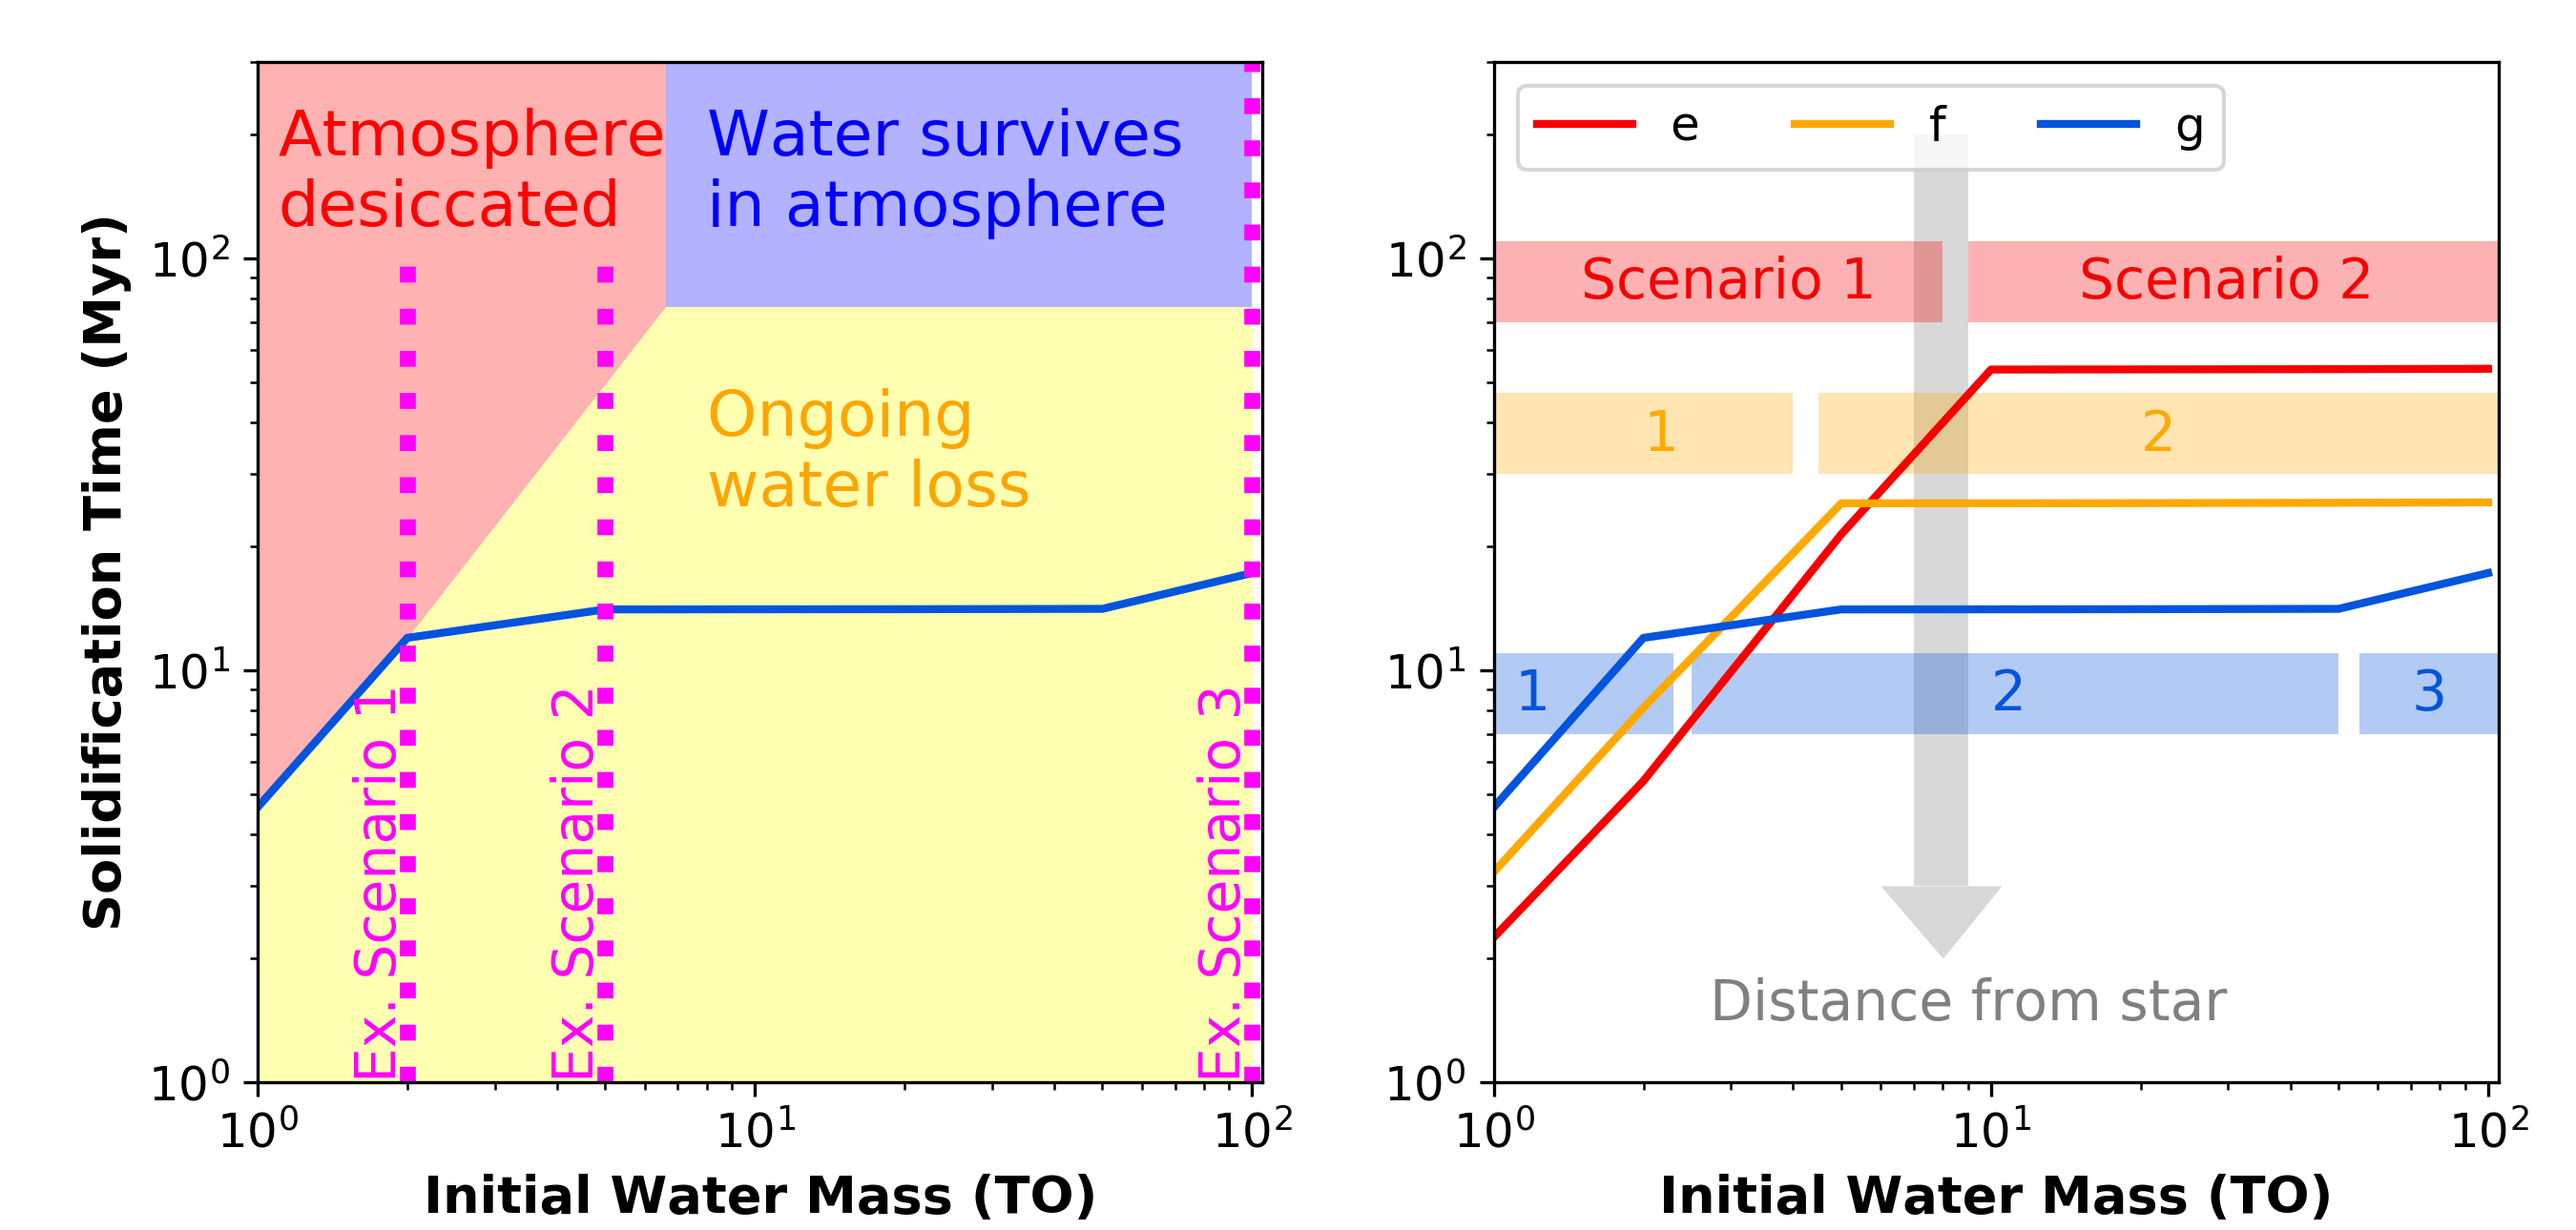
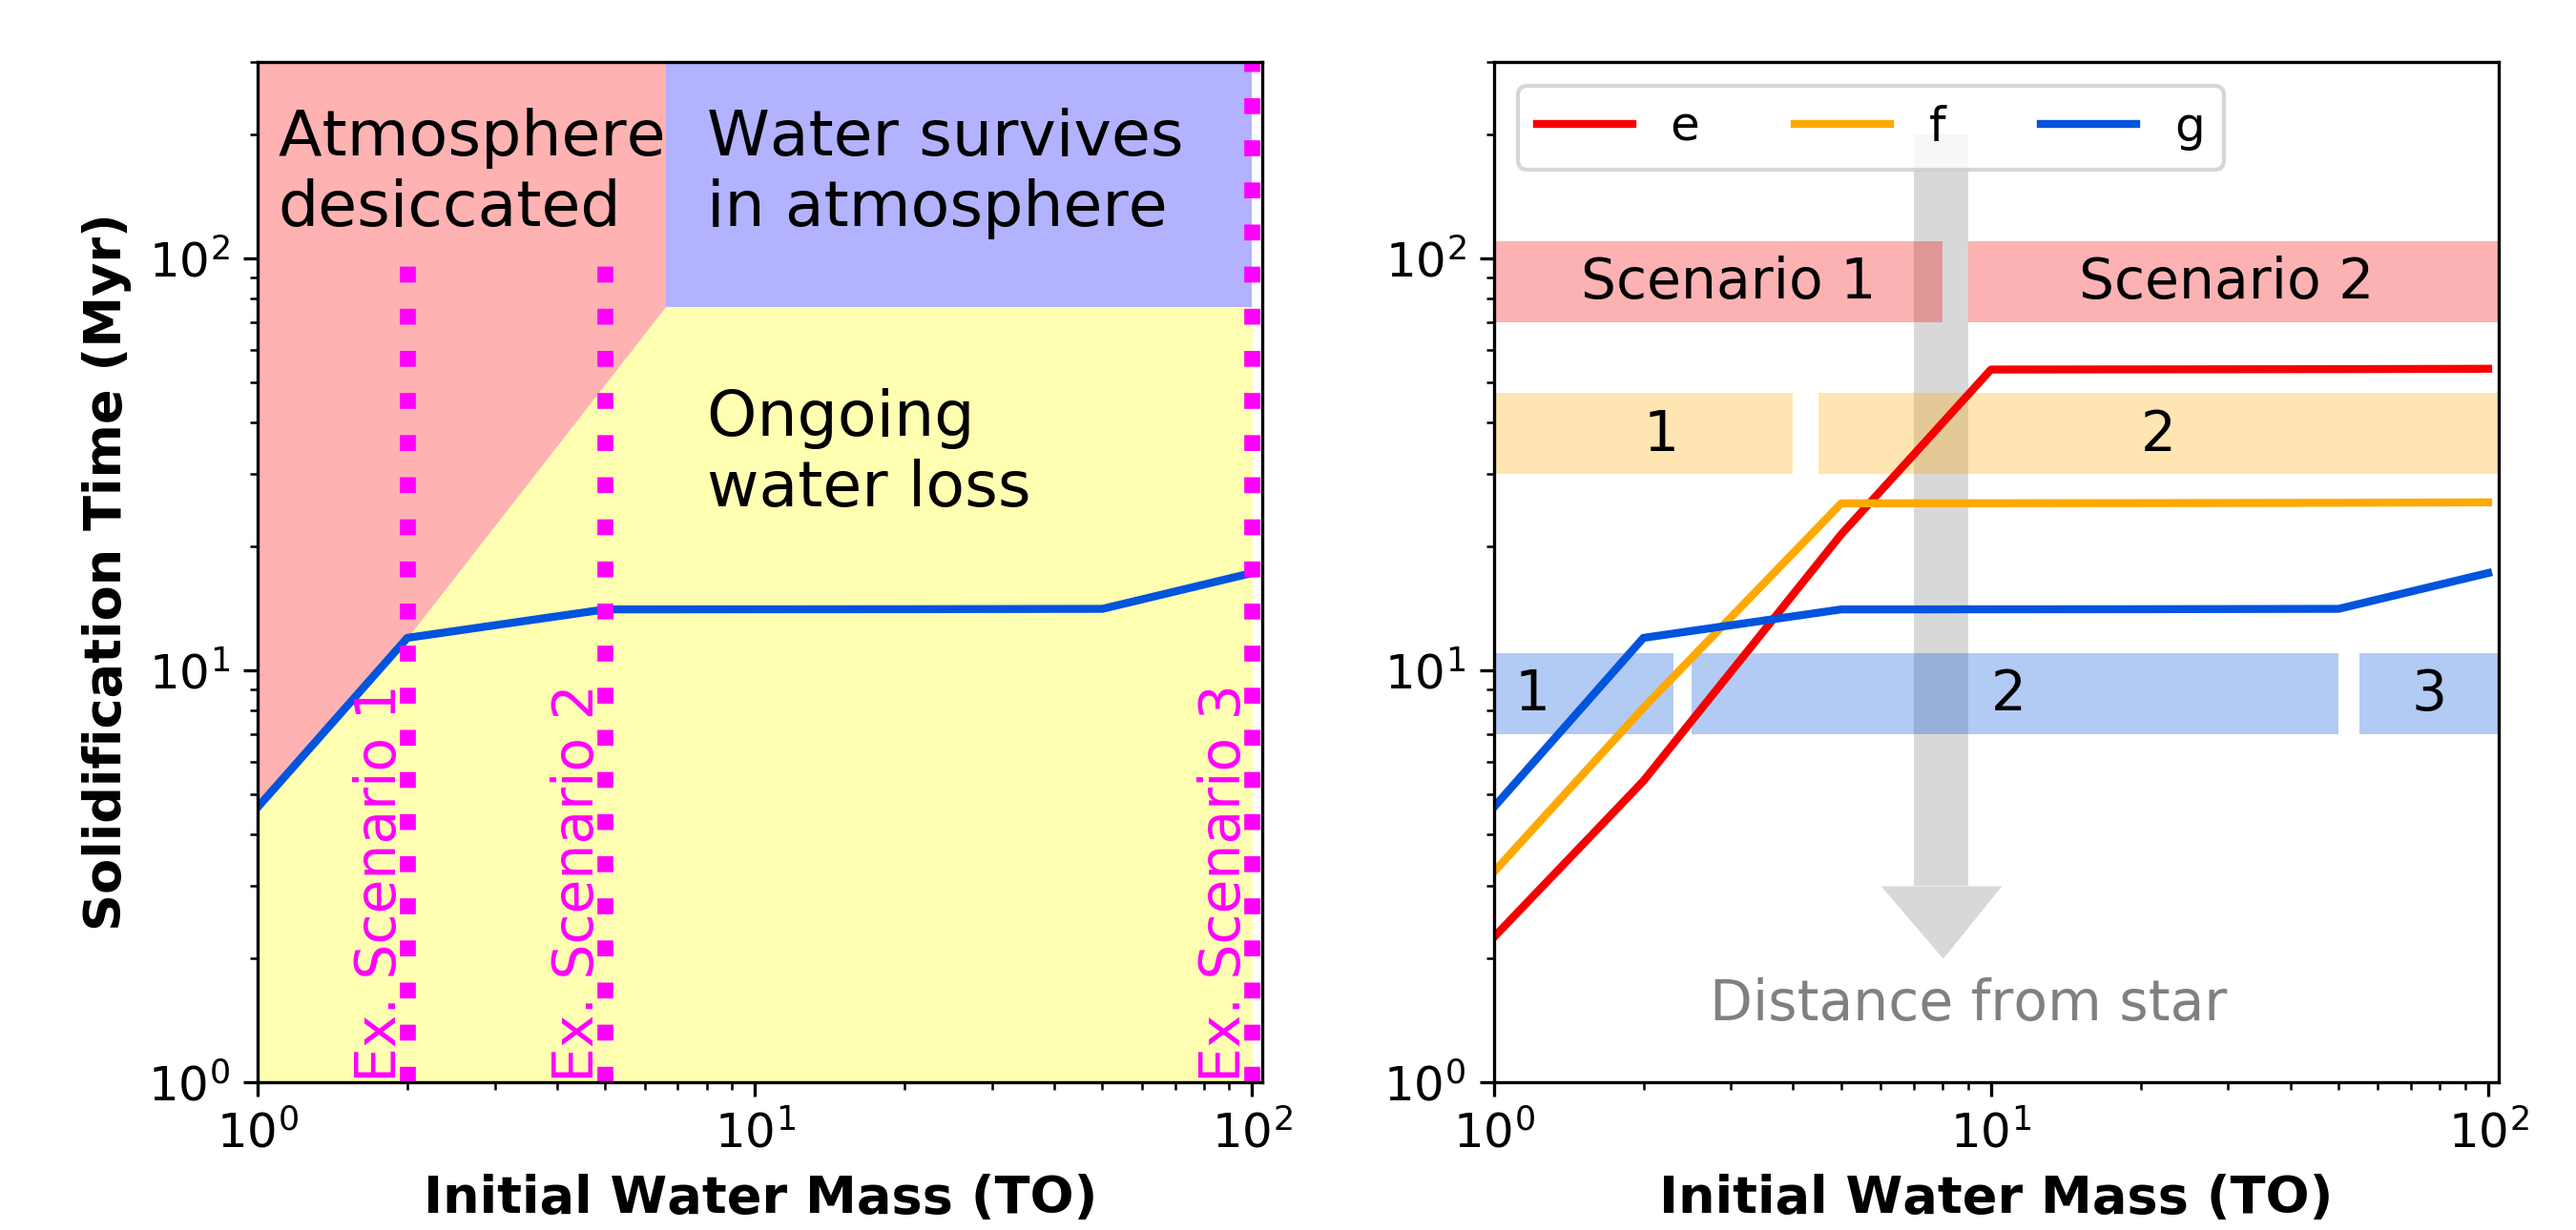
heat comparison without co2

diff --git a/Fig_Trappist1e_Compare_Heat/plot_trappist_comp_volatile.py b/Fig_Trappist1e_Compare_Heat/plot_trappist_comp_volatile.py
@@ -32,8 +32,10 @@ Short_Planet = 'e'
 
 
 # read data
-data_1 = np.loadtxt('CO2_TR1_e_100TO_sol/Trappist1.e.forward')
-data_2 = np.loadtxt('CO2_TR1_e_100TO_heat/Trappist1.e.forward')
+# data_1 = np.loadtxt('CO2_TR1_e_100TO_sol/Trappist1.e.forward')
+# data_2 = np.loadtxt('CO2_TR1_e_100TO_heat/Trappist1.e.forward')
+data_1 = np.loadtxt('TR1_e_100TO/Trappist1.e.forward')
+data_2 = np.loadtxt('TR1_e_100TO_heat/Trappist1.e.forward')
 
 time_1        = data_1[:,0]  # time (yr)
 Tpot_1        = data_1[:,1]  # Potential temp magma ocean (K)
@@ -45,10 +47,10 @@ M_O_mo_1      = data_1[:,6] # mass of oxygen in magma ocean + atmosphere (kg)
 M_O_sol_1     = data_1[:,7] # mass of oxygen in solid mantle (kg)
 Press_H2O_1   = data_1[:,8] # partial pressure water in atmopshere (bar)
 Press_O_1     = data_1[:,9] # partial pressure oxygen in atmosphere (bar)
-M_CO2_mo_1    = data_1[:,19] # mass of CO2 in magma ocean + atmosphere (kg)
-M_CO2_sol_1   = data_1[:,20] # mass of CO2 in solid mantle (kg)
-Press_CO2_1   = data_1[:,21] # pressure CO2 in atmopshere (bar)
-Frac_CO2_1    = data_1[:,22] # CO2 fraction in magma ocean
+# M_CO2_mo_1    = data_1[:,19] # mass of CO2 in magma ocean + atmosphere (kg)
+# M_CO2_sol_1   = data_1[:,20] # mass of CO2 in solid mantle (kg)
+# Press_CO2_1   = data_1[:,21] # pressure CO2 in atmopshere (bar)
+# Frac_CO2_1    = data_1[:,22] # CO2 fraction in magma ocean
 
 time_2        = data_2[:,0]  # time (yr)
 Tpot_2        = data_2[:,1]  # Potential temp magma ocean (K)
@@ -60,10 +62,10 @@ M_O_mo_2      = data_2[:,6] # mass of oxygen in magma ocean + atmosphere (kg)
 M_O_sol_2     = data_2[:,7] # mass of oxygen in solid mantle (kg)
 Press_H2O_2   = data_2[:,8] # partial pressure water in atmopshere (bar)
 Press_O_2     = data_2[:,9] # partial pressure oxygen in atmosphere (bar)
-M_CO2_mo_2    = data_2[:,19] # mass of CO2 in magma ocean + atmosphere (kg)
-M_CO2_sol_2   = data_2[:,20] # mass of CO2 in solid mantle (kg)
-Press_CO2_2   = data_2[:,21] # pressure CO2 in atmopshere (bar)
-Frac_CO2_2    = data_2[:,22] # CO2 fraction in magma ocean
+# M_CO2_mo_2    = data_2[:,19] # mass of CO2 in magma ocean + atmosphere (kg)
+# M_CO2_sol_2   = data_2[:,20] # mass of CO2 in solid mantle (kg)
+# Press_CO2_2   = data_2[:,21] # pressure CO2 in atmopshere (bar)
+# Frac_CO2_2    = data_2[:,22] # CO2 fraction in magma ocean
 
 n_time_1 = len(time_1)
 n_time_2 = len(time_2)
@@ -71,10 +73,16 @@ n_time_2 = len(time_2)
 M_water_atm_1 = np.zeros(n_time_1)
 M_O_atm_1     = np.zeros(n_time_1)
 M_CO2_atm_1   = np.zeros(n_time_1)
+Ave_molmass_1 = np.zeros(n_time_1)
+Partpress_H2O_1 = np.zeros(n_time_1)
+Partpress_O2_1  = np.zeros(n_time_1)
 
 M_water_atm_2 = np.zeros(n_time_2)
 M_O_atm_2     = np.zeros(n_time_2)
 M_CO2_atm_2   = np.zeros(n_time_2)
+Ave_molmass_2 = np.zeros(n_time_2)
+Partpress_H2O_2 = np.zeros(n_time_2)
+Partpress_O2_2  = np.zeros(n_time_2)
 
 TO     = 1.39e21         # mass of 1 Terr. Ocean [kg]
 REARTH = 6.3781e6        # m
@@ -84,15 +92,24 @@ r_p    = R_N_Planet*REARTH
 m_p    = M_N_Planet*MEARTH
 g      = (BIGG * m_p) / (r_p ** 2)
 
+MOLMASSH2O = 18e-3
+MOLMASSO2  = 32e-3
+
 for i in range(n_time_1):
     M_water_atm_1[i] = Press_H2O_1[i]*1e5 * 4 * np.pi * r_p**2 / g
     M_O_atm_1[i]     = Press_O_1[i]  *1e5 * 4 * np.pi * r_p**2 / g
-    M_CO2_atm_1[i]   = Press_CO2_1[i]*1e5 * 4 * np.pi * r_p**2 / g
+    # M_CO2_atm_1[i]   = Press_CO2_1[i]*1e5 * 4 * np.pi * r_p**2 / g
+    Ave_molmass_1[i] = (M_water_atm_1[i]+M_O_atm_1[i])/(M_water_atm_1[i]/MOLMASSH2O + M_O_atm_1[i]/MOLMASSO2)
+    Partpress_H2O_1[i] = Press_H2O_1[i] * Ave_molmass_1[i]/MOLMASSH2O
+    Partpress_O2_1[i]  = Press_O_1[i]   * Ave_molmass_1[i]/MOLMASSO2
 
 for i in range(n_time_2):
     M_water_atm_2[i] = Press_H2O_2[i]*1e5 * 4 * np.pi * r_p**2 / g
     M_O_atm_2[i]     = Press_O_2[i]  *1e5 * 4 * np.pi * r_p**2 / g
-    M_CO2_atm_2[i]   = Press_CO2_2[i]*1e5 * 4 * np.pi * r_p**2 / g
+    # M_CO2_atm_2[i]   = Press_CO2_2[i]*1e5 * 4 * np.pi * r_p**2 / g
+    Ave_molmass_2[i] = (M_water_atm_2[i]+M_O_atm_2[i])/(M_water_atm_2[i]/MOLMASSH2O + M_O_atm_2[i]/MOLMASSO2)
+    Partpress_H2O_2[i] = Press_H2O_2[i] * Ave_molmass_2[i]/MOLMASSH2O
+    Partpress_O2_2[i]  = Press_O_2[i]   * Ave_molmass_2[i]/MOLMASSO2
 
 
 ### Plot ###
@@ -111,8 +128,8 @@ ax1.plot(time_2*10**-6, Tsurf_2, linestyle='--', color=cmap(220))
 ax1.legend(loc='best', frameon=True)
 ax1.set_ylabel('Temperature (K)')
 ax1.set_xscale('log')
-ax1.set_xlim([1,253])
-ax1.set_ylim([1500,3500])
+ax1.set_xlim([0.1,253])
+ax1.set_ylim([500,4000])
 
 # ---------------------------------------------------------------------------- #
 ax2 = fig.add_subplot(222, sharex=ax1)
@@ -147,18 +164,16 @@ ax3.set_yscale('log')
 
 # ---------------------------------------------------------------------------- #
 ax7 = fig.add_subplot(224, sharex=ax1)
-ax7.plot(time_1*10**-6, M_CO2_atm_1, label='atmosphere',   color=cmap(0))
-ax7.plot(time_1*10**-6, M_CO2_mo_1-M_CO2_atm_1, label='magma ocean',   color=cmap(70))
-ax7.plot(time_1*10**-6, M_CO2_sol_1, label='solid',   color=cmap(220))
+ax7.plot(time_1*10**-6, Partpress_H2O_1, label='$H_2O$',   color=cmap(70))
+ax7.plot(time_1*10**-6, Partpress_O2_1,  label='$O_2$',   color=cmap(220))
 
-ax7.plot(time_2*10**-6, M_CO2_atm_2,  linestyle='--',  color=cmap(0))
-ax7.plot(time_2*10**-6, M_CO2_mo_2-M_CO2_atm_2,  linestyle='--', color=cmap(70))
-ax7.plot(time_2*10**-6, M_CO2_sol_2,  linestyle='--', color=cmap(220))
+ax7.plot(time_2*10**-6, Partpress_H2O_2,  linestyle='--',  color=cmap(70))
+ax7.plot(time_2*10**-6, Partpress_O2_2,   linestyle='--', color=cmap(220))
 
-ax7.set_ylim([1e18,1e23])
+ax7.set_ylim([1,1e5])
 ax7.legend(loc='best', frameon=True)
 ax7.set_xlabel('Time (Myr)')
-ax7.set_ylabel('$CO_2$ Mass (kg)')
+ax7.set_ylabel('Partial Pressure (bar)')
 ax7.set_yscale('log')
 
 plt.subplots_adjust(left=0.08, right=0.98, top=0.9, bottom=0.1, wspace=0.2, hspace=0.12)

diff --git a/Fig_Trappist1g_scenarios/TR1_scenarios_efg.py b/Fig_Trappist1g_scenarios/TR1_scenarios_efg.py
@@ -110,9 +110,9 @@ ax1.text(  2, 1, 'Ex. Scenario 1', rotation=90, ha='right', va='bottom', fontsiz
 ax1.text(  5, 1, 'Ex. Scenario 2', rotation=90, ha='right', va='bottom', fontsize=14, color='magenta')
 ax1.text(100, 1, 'Ex. Scenario 3', rotation=90, ha='right', va='bottom', fontsize=14, color='magenta')
 
-ax1.text(1.1, 120, 'Atmosphere \ndesiccated',        color='red',    fontsize=16)
-ax1.text(  8, 120, 'Water survives \nin atmosphere', color='blue',   fontsize=16)
-ax1.text(  8,  25, 'Ongoing \nwater loss',           color='orange', fontsize=16)
+ax1.text(1.1, 120, 'Atmosphere \ndesiccated',        color='black',    fontsize=16)
+ax1.text(  8, 120, 'Water survives \nin atmosphere', color='black',   fontsize=16)
+ax1.text(  8,  25, 'Ongoing \nwater loss',           color='black', fontsize=16)
 
 # ax1.legend(title='TRAPPIST-1 g with $H_2O$ atmosphere', loc='lower left', bbox_to_anchor= (0, 1.02), ncol=2, borderaxespad=0, frameon=True, title_fontsize=13)
 
@@ -145,21 +145,21 @@ ax2.fill_between([6,8,10.5], [3,2,3], [3,3,3], color='grey',   alpha=0.3, linewi
 ax2.text(9,1.8,'Distance from star',color='grey',fontsize=14,ha='center',va='top')
 
 ax2.fill_between([1,8], 70, 110, color=cmap(220),   alpha=0.3, linewidth=0.0)
-ax2.text(1.5,80,'Scenario 1',color=cmap(220),fontsize=14)
+ax2.text(1.5,80,'Scenario 1',color=cmap(0),fontsize=14)
 ax2.fill_between([9,105], 70, 110, color=cmap(220),   alpha=0.3, linewidth=0.0)
-ax2.text(15,80,'Scenario 2',color=cmap(220),fontsize=14)
+ax2.text(15,80,'Scenario 2',color=cmap(0),fontsize=14)
 
 ax2.fill_between([1,4], 30, 47, color=cmap(200),   alpha=0.3, linewidth=0.0)
-ax2.text(2,34,'1',color=cmap(200),fontsize=14)
+ax2.text(2,34,'1',color=cmap(0),fontsize=14)
 ax2.fill_between([4.5,105], 30, 47, color=cmap(200),   alpha=0.3, linewidth=0.0)
-ax2.text(20,34,'2',color=cmap(200),fontsize=14)
+ax2.text(20,34,'2',color=cmap(0),fontsize=14)
 
 ax2.fill_between([1,2.3], 7, 11, color=cmap(60),   alpha=0.3, linewidth=0.0)
-ax2.text(1.1,8,'1',color=cmap(60),fontsize=14)
+ax2.text(1.1,8,'1',color=cmap(0),fontsize=14)
 ax2.fill_between([2.5,50], 7, 11, color=cmap(60),   alpha=0.3, linewidth=0.0)
-ax2.text(10,8,'2',color=cmap(60),fontsize=14)
+ax2.text(10,8,'2',color=cmap(0),fontsize=14)
 ax2.fill_between([55,105], 7, 11, color=cmap(60),   alpha=0.3, linewidth=0.0)
-ax2.text(70,8,'3',color=cmap(60),fontsize=14)
+ax2.text(70,8,'3',color=cmap(0),fontsize=14)
 
 # ax2.legend(loc='lower left', bbox_to_anchor= (-0.6, 1.02), ncol=3, borderaxespad=0, frameon=True)
 ax2.legend(loc='upper left', ncol=3, frameon=True)

diff --git a/Fig_Trappist1_TimeEvolution/plot_trappist.py b/Fig_Trappist1_TimeEvolution/plot_trappist.py
@@ -31,7 +31,7 @@ Initial_water = 1
 
 # Which planet to plot:
 # 1-b, 2-c, 3-d, 4-e, 5-f, 6-g, 7-h
-N_Planet = 6
+N_Planet = 4
 # Eccentricity
 Ecc = 0
 # 40-K abundance (in Earth abundances)
@@ -43,7 +43,7 @@ T_Desicc = [0,0,0,31.114,64.7048,117.2161]
 # read data
 if N_Planet == 4:
     # TRAPPIST-1 e #
-    data = np.loadtxt("Trappist1.Trappist1e.forward")
+    data = np.loadtxt("TR1_e_100TO_heat_long2/Trappist1.e.forward")
     R_N_Planet = 0.913
     M_N_Planet = 0.766
     Name_Planet = 'Trappist-1 e'
@@ -203,7 +203,7 @@ ax1.axvline(x=T_Solid[N_Planet-1],linestyle='--', color=cmap(20))
 ax1.axvline(x=T_Desicc[N_Planet-1],linestyle='--', color=cmap(140))
 ax1.legend(loc='best', frameon=True)
 ax1.set_ylabel('Temperature (K)')
-ax1.set_xscale('log')
+# ax1.set_xscale('log')
 
 # --- Solidification Radius --- #
 ax2 = fig.add_subplot(332, sharex=ax1)
@@ -330,8 +330,8 @@ ax9.set_ylabel('Ratio of atoms gained (%)')
 # ax9.set_xlabel('Time (Myrs)')
 # ax9.set_ylabel('Number of atoms lost ($10^{45}$)')
 plt.subplots_adjust(left=0.05, right=0.99, top=0.93, bottom=0.07)
-plt.savefig('../../../../../../Uni/Masterarbeit/Results_VPlanet/Trappist-1/'+str(Name_Folder)+'/'+str(clock)+'_'+str(Name_Folder)+'_'+str(M_water_mo[0])+'TO_ecc_'+str(Ecc)+'_40K_'+str(K40)+'.png')
-
+# plt.savefig('../../../../../../Uni/Masterarbeit/Results_VPlanet/Trappist-1/'+str(Name_Folder)+'/'+str(clock)+'_'+str(Name_Folder)+'_'+str(M_water_mo[0])+'TO_ecc_'+str(Ecc)+'_40K_'+str(K40)+'.png')
+plt.savefig('plot.png')
 # plt.show()
 
 # plt.figure()
